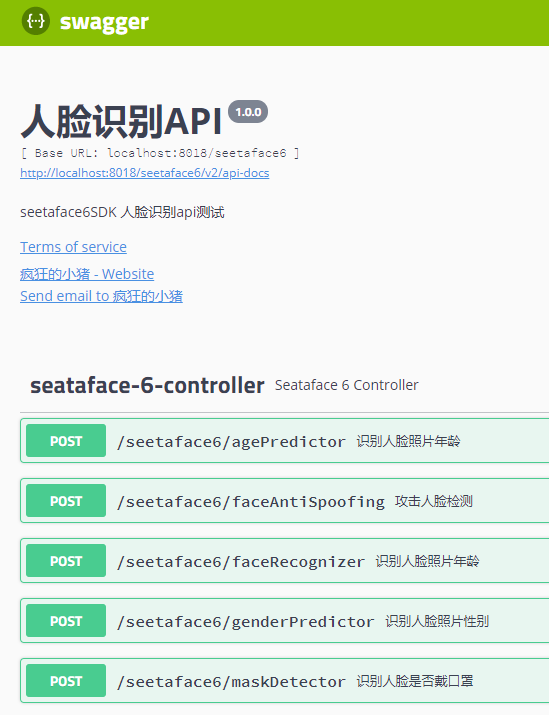
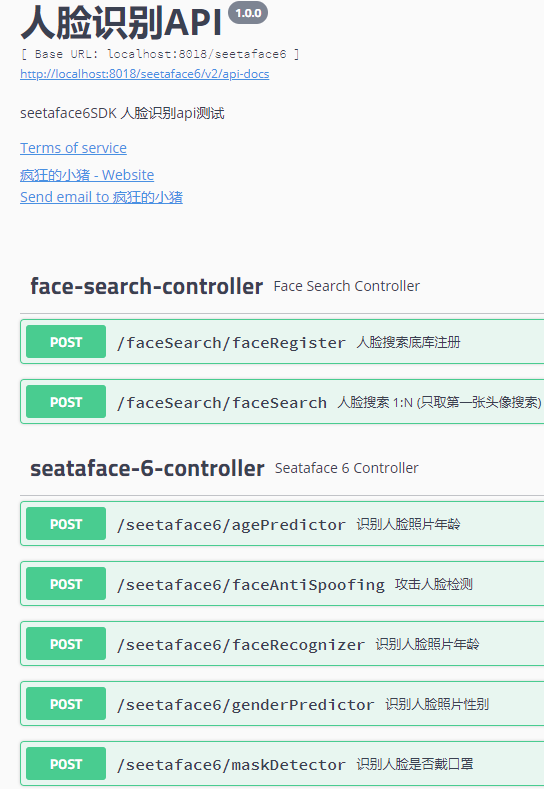
添加api说明

diff --git a/README.md b/README.md
@@ -5,8 +5,9 @@
 1.  基于seetaface6SDK(https://gitee.com/crazy-of-pig/seeta-sdk-platform.git)
 2.  将各种人脸识别器配置成spring bean 做成spring boot项目。
 3.  window10 环境需要安装 visual_studio；linux 环境需要安装 cmake-3.12.4.tar.gz。 详细情况请先看seetaface6SDK项目
+
 #### 演示API
-1.  几种常见api展示
+1.  几种常见api展示，1:1，1:N
     ![Image text](https://gitee.com/crazy-of-pig/spring-boot-seetaface6/raw/master/img/api.png)
 
 #### 软件架构
